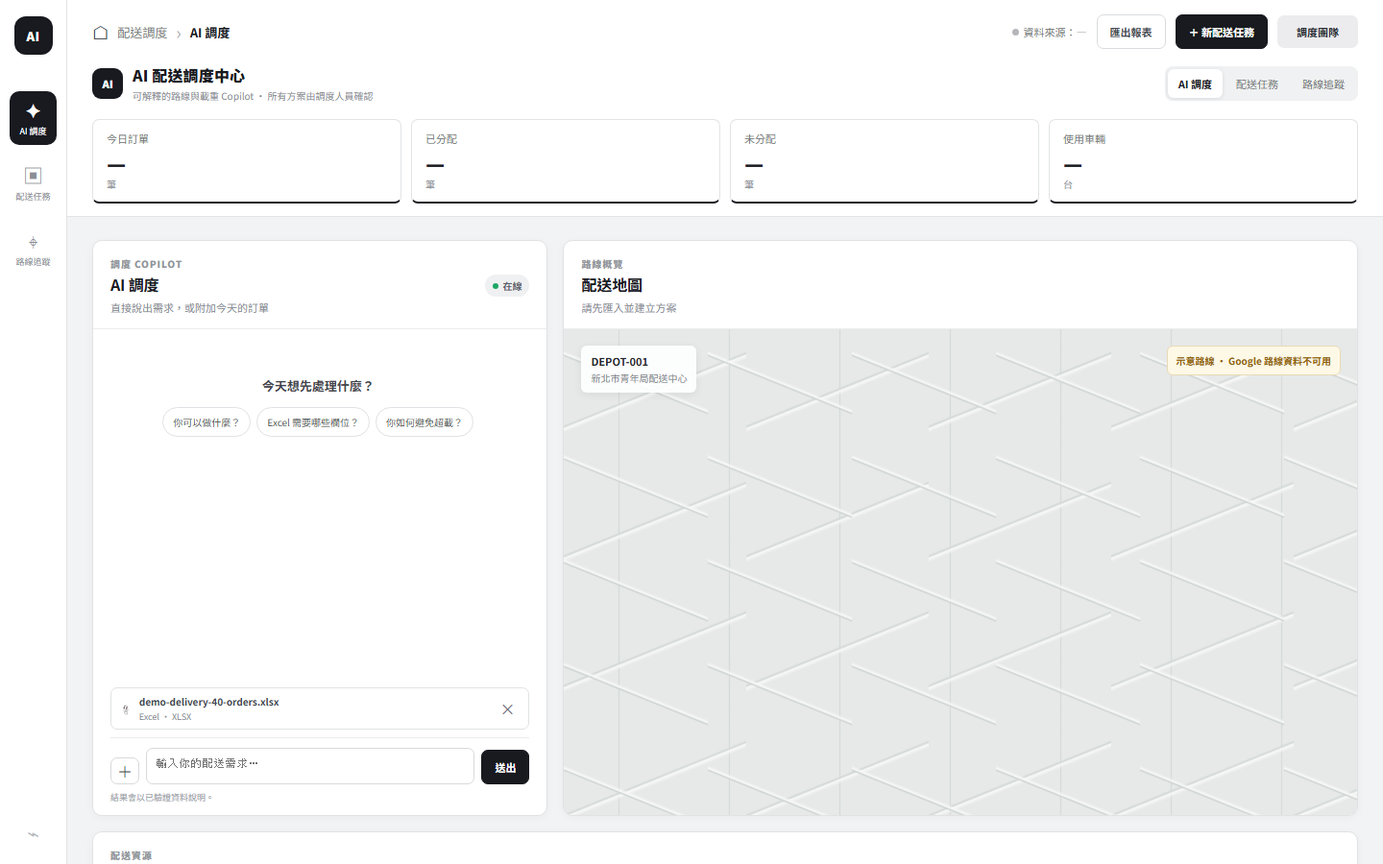
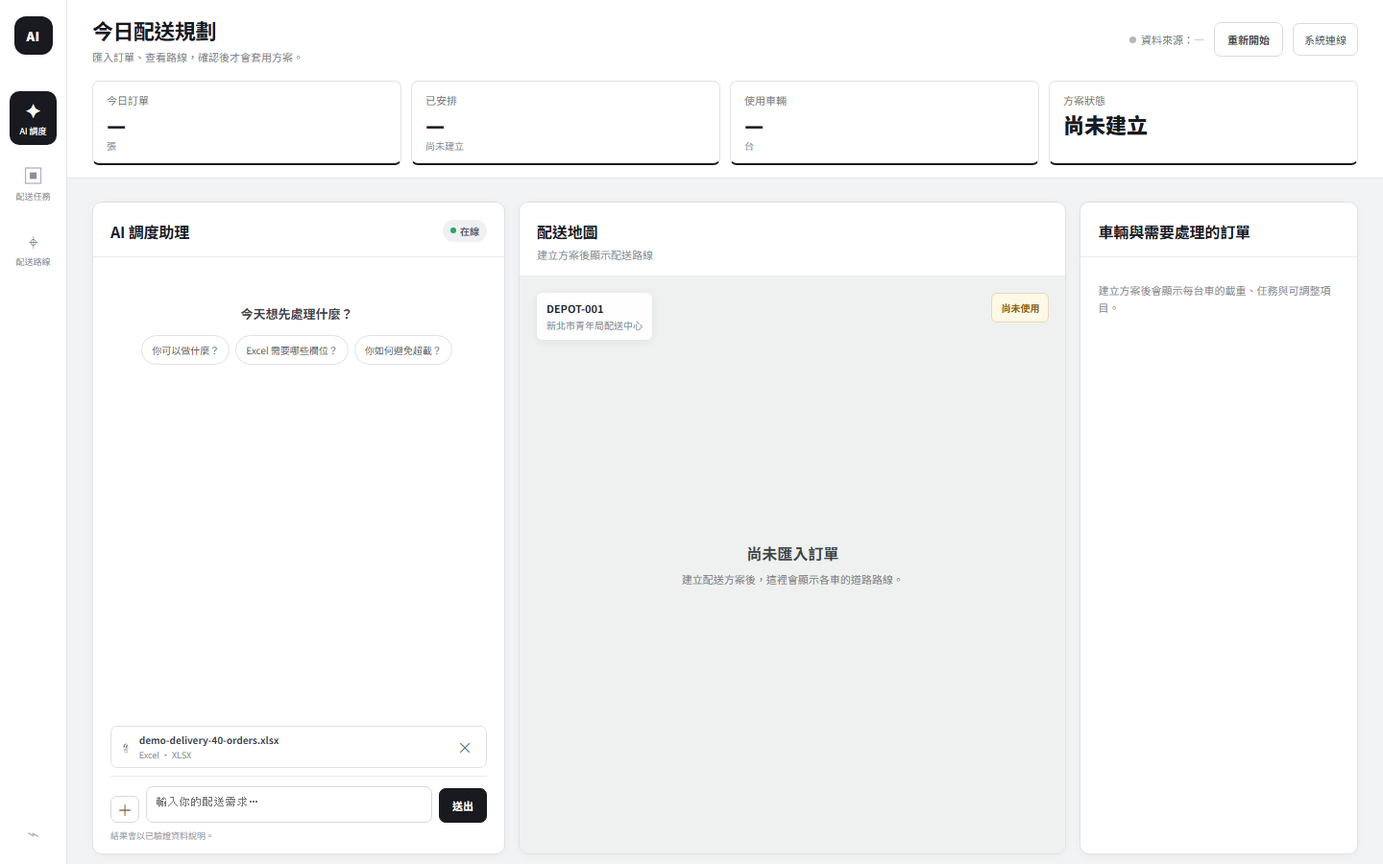
docs: record final public demo acceptance

diff --git a/docs/project-status.md b/docs/project-status.md
@@ -29,25 +29,25 @@
 | 超重重新分配 | 原始必要 | 完成 | Z4 112 kg acceptance、獨立方案檢查與公開最佳化方案證據 | 無核心缺口 |
 | 臨時插單 Preview 與差異 | 原始必要 | 完成 | `try_minimal_insert`、`compute_plan_diff`；公開 ORD-041 Google Live 預覽與人工確認 | 無核心缺口 |
 | 人工確認與方案版本管理 | 原始必要 | 完成（確認狀態與 current pointer 已持久化） | API lifecycle tests、SQLite immutable version tests、confirm persistence regression | 無本輪核心缺口 |
-| OpenAI Agent 真正呼叫 Tool | 原始必要 | 完成（Local Live；HTTP gate blocked） | `src/agent/runtime.py`、`/api/v1/agent/chat`、本輪 `RunResult`／strict tool evidence | 需在不觸發 Windows in-process OR-Tools abort 的 HTTP harness／公開環境重驗 |
+| OpenAI Agent 真正呼叫 Tool | 原始必要 | 完成 | `src/agent/runtime.py`、`/api/v1/agent/chat`；24 個 Live Runner 與公開線性 E2E 均驗證 `RunResult`／strict tool evidence | 無核心缺口 |
 | Google Routes 真實距離／時間 | 原始必要 | 完成 | 公開 `provider_mode=GOOGLE`，Matrix 與道路 geometry 均實際取得 | 無核心缺口 |
 | Google Matrix 進入 OR-Tools | 原始必要 | 完成 | 公開 Matrix hash、40／40 OR-Tools plan、方案檢查與策略比較 hash 一致 | 無核心缺口 |
 | Google Maps Browser 地圖 | 原始必要 | 完成 | 公開 Google 地圖實例、40 個站點、4 條非 simulated 道路路線，Console error 0 | 無核心缺口 |
 | TDX OAuth／真實路況查詢 | 未來可選擴充 | 本版本未啟用 | 既有 adapter 保留，但不列入本次 Demo 流程 | 未排入本輪 |
 | TDX 路線風險判斷 | 未來可選擴充 | 本版本未啟用 | 既有 deterministic correlation 保留 | 未排入本輪 |
 | 前端完整操作流程 | 原始必要 | 完成 | 公開 Excel→Agent→Plan→Map→拖拉 Preview→ORD-041→人工確認驗收 | 無核心缺口 |
-| 全整合前後端 Live E2E | 原始必要 | 公開重驗中 | OpenAI、Google Routes、Google Maps、OR-Tools、方案檢查與人工確認具既有公開證據 | 等待本輪最新 Commit 部署後，從空白首頁完整重跑 |
+| 全整合前後端 Live E2E | 原始必要 | 完成 | 公開網站從空白首頁一次完成 Excel→Google Matrix→OR-Tools→地圖→Agent→拖拉→ORD-041→確認→策略→延遲→版本；未處理錯誤 0、正式派車請求 0 | 無核心缺口 |
 | 任意結構化臨時插單與連續版本 | 原始必要 | 完成（simulated acceptance） | `preview_structured_urgent_insert`、API arbitrary-order test、`docs/randomized-acceptance-report.json` | Live Google 僅執行代表性流程；壓力測試使用 simulated |
 
 ## NOW
 
-推送本輪已通過本機閘門的修正，等待 Render 自動部署後，從公開空白首頁完成單次線性 Demo 驗收。
+依 `docs/demo-runbook.md` 執行明晚展示前檢查；不新增功能、不執行正式派車。
 
 ## NEXT
 
-1. 推送本輪修正並等待 Render 自動部署。
-2. 從公開空白首頁完成單次線性 Demo 與 1440×900 截圖。
-3. 依公開證據更新最終驗證紀錄。
+1. 明晚展示前確認 Render `/health` 與首頁可用。
+2. 準備範例 Excel，依線性流程演練一次。
+3. 後續再評估非必要的企業擴充；TDX 不在本版範圍。
 
 ## BLOCKED
 
@@ -58,7 +58,9 @@
 - `EXT-001 — Resolved`：Google Browser key 已設定並通過 Live Playwright；P0 Benchmark 仍固定使用 simulated matrix 以維持可重現。
 - `EXT-002 — Scope Decision`：TDX 已由本輪明確排除並移至未來可選擴充，不影響核心 Demo 或完成判定。
 
-## 2026-09-05 V2 最新公開重驗（Commit `c5fe929577797cb8590eac7d54fc47b6fb5637fa`）
+## 2026-09-05 歷史公開紀錄（已由 2026-09-06 驗收取代）
+
+以下保留事故與修正軌跡，不代表目前狀態；目前權威結果以文件頂端與 `LAST VALIDATION` 的 2026-09-06 紀錄為準。
 
 - Render Dashboard 顯示該 Commit 已部署為 `Live`；`/health` HTTP 200，服務回報 `status=ok`。
 - 無資料的八種口語／中英混用事件均由公開 `/api/v1/agent/chat` 回傳 `RunResult`：急單與缺資料事件選 `request_missing_fields`；車輛事件選 `change_vehicle_availability`；凍結站點選 `change_frozen_stops`；延遲查詢選 `simulate_delay`。未使用 regex 或固定訂單路由。
@@ -86,6 +88,13 @@
 - `PUBLIC-AUDIT-001 — Acceptance`：Render 公開網址實測 `/health`、`/ready`、Swagger／OpenAPI 13 paths、CORS、官方 40 單匯入、Google Matrix → OR-Tools、Google Maps 道路 geometry、OpenAI `Runner.run` tool evidence 與 ORD-041 preview；未執行 Dispatch。公開驗收使用合成資料，未輸出任何憑證。
 
 ## DONE THIS ROUND
+
+- 從 Render 公開空白首頁以單一 Chromium 會話完成完整線性 Demo，涵蓋 Excel、40／40、4／4、Google 道路地圖、Agent 工具證據、車輛事件、真實拖拉換車、取消、ORD-041、人工確認、三策略、延遲與版本；結果 `1 passed`，正式派車請求 `0`。
+- 公開 Agent 現場題目均實際呼叫 `/api/v1/agent/chat`；重要問題逐題驗證 `RunResult` 與預期 strict tool。Prompt injection 收到明確 `PROMPT_INJECTION_BLOCKED`，沒有未處理 Console／page error。
+- 視覺稽核發現車輛停用與延遲回答可能顯示 JSON／英文內部欄位；已 regression-first 修正為繁體中文白話摘要，並讓 ORD-041 回答直接顯示受影響車輛、換車數、距離、時間與方案檢查。
+- Backend 全量 `218 passed、28 skipped`；112 案例 corpus 實際 `115 passed`；24 個 Live Runner `24 passed`；Ruff／mypy 通過。
+- Frontend TypeScript、ESLint、Vitest `20 passed`、production build 通過；本機 Playwright core `2 passed`、隨機資料／純附件 `2 passed`，公開線性 E2E `1 passed`。
+- Secret scan：高信心 pattern `0`、追蹤敏感路徑 `0`、GitHub Actions `0`；`.env` 與 `frontend/.env.local` 均被 Git 排除。
 
 - 以 regression-first 新增空白首頁狀態、Google／TDX 顯示與不完整 Preview 禁止套用測試，並完成對應修正。
 - 修正 validated dataset 的自然語言建立方案被誤選為臨時插單缺欄流程；真實 `gpt-5-mini` `Runner.run` 已驗證選用 `plan_dispatch`。
@@ -184,6 +193,12 @@
 - 完成 1440×900 視覺檢查截圖：`C:\Users\User\AppData\Local\Temp\ai-dispatch-redesign-1440x900.png`、`ai-dispatch-redesign-imported-1440x900.png`、`ai-dispatch-redesign-tasks-1440x900.png`、`ai-dispatch-redesign-tracking-1440x900.png`；Browser key 缺少時明確顯示示意路線，未宣稱 Google Maps Live。
 
 ## LAST VALIDATION
+
+- 2026-09-06 Commit `550f73678f8772a9d1f96c03cd4d66a2870f3664` 公開 Render 線性 E2E：`1 passed`（4.6 分鐘）；同一瀏覽器會話由空白首頁走完整流程，15 張 1440×900 截圖存於 `docs/screenshots/public-final/`，未處理 Console／page error `0`，正式派車 requests `0`。
+- 公開正式方案：40／40 張、4／4 台、365 kg、Google 即時 Matrix→OR-Tools、方案檢查通過；本次畫面載重為 VEH-001 `106/120 kg`、VEH-002 `93/100 kg`、VEH-003 `160/160 kg`、VEH-004 `6/110 kg`。
+- 公開 ORD-041：40→41 張、365→367 kg、影響 1 台車、既有訂單換車 0 張、距離 `+2,296 m`、時間 `+268 s`、方案檢查通過；人工確認後建立新版本。
+- 最新本機：Backend `218 passed、28 skipped`；deterministic corpus `115 passed`；Live Runner `24 passed`；Ruff、mypy、TypeScript、ESLint、Vitest `20 passed`、Vite build 均通過。
+- Playwright：基礎回歸 `2 passed`；固定 seed 隨機資料／純附件 `2 passed`（明確 `SIMULATED`）；公開完整 Google／OpenAI 流程 `1 passed`。本機舊 Live gate 因 Server Key 僅允許 Render 而分類 `API_KEY_RESTRICTED`，不影響已通過的公開 Live 驗收。
 
 - 2026-09-06 本機最終閘門：`pytest 216 passed、28 skipped`；28 個 skipped 全是明確 opt-in 外部 gates，其中 24 個 OpenAI Runner corpus 已另行以 Live 模式得到 `24 passed`。
 - 112 筆機器可讀 Agent corpus 全數通過；測試檔總計 `115 passed`（含 3 個資料集完整性檢查）。

diff --git a/docs/requirements.md b/docs/requirements.md
@@ -6,7 +6,7 @@
 |---|---|---|---|---|---|---|---|---|---|
 | FR-PLAN-008 | 原始必要 | 一般正式方案只能使用 OR-Tools | 完成 | `src/agent/runtime.py`、`src/api/main.py`、`tests/test_formal_plan_guardrails.py` | 無 | 後端 | 合法 Dataset | API 與 Agent 正式 plan 皆為 ORTOOLS；Baseline confirm 回傳拒絕 | Baseline 僅能比較 |
 | FR-PLAN-009 | 原始必要 | 完整性與規則合法性分開 | 完成 | `_plan_payload`、`DetailsPanel.tsx`、正式方案 regression | 公開最新版本待重驗 | 共同 | Plan、方案檢查證據 | 40／40 與方案檢查分開顯示；38／40 不可確認 | 不完整方案保留人工處理原因 |
-| FR-UI-004 | 原始必要 | 單一控制塔與白話狀態 | 完成（本機） | `frontend/src/App.tsx`、各 Panel、RTL／Playwright | 公開最新 Render 待驗收 | 前端 | REST API | 無重複頁名、主畫面 Raw JSON 或假地圖 | 地圖失敗保留列表 |
+| FR-UI-004 | 原始必要 | 單一控制塔與白話狀態 | 完成 | `frontend/src/App.tsx`、各 Panel、RTL／Playwright、`docs/screenshots/public-final/` | 無核心缺口 | 前端 | REST API | 公開畫面無重複頁名、主畫面 Raw JSON 或假地圖 | 地圖失敗保留列表 |
 | FR-AGENT-004 | 原始必要 | 多語句 strict tool 選擇驗收 | 完成（本機） | 112 筆 fixture；24 個真實 Runner 案例 | 公開 12 案例待部署後執行 | 共同 | OpenAI credential | 工具、參數、結果及回答依據全部可驗證 | 無 key 回傳 503 |
 
 本文件將已核准的產品需求拆解為可追溯的 requirements；若文字不一致，以 `ACTIVE_SPEC.md` 為準。
@@ -92,11 +92,11 @@
 | FR-AGENT-002／FR-AGENT-003 | 原始必要 | OpenAI Agent 真正呼叫 deterministic Tool | 完成（可執行；Live 依環境） | `/api/v1/agent/chat` → `run_dispatch_agent` → `Runner.run`；`tests/test_agent_sdk_scenarios.py` | 公開環境若缺 key 必須標示 BLOCKED，不能以 mock 取代 | 後端／共同 | OpenAI credentials（僅 live gate） | Agent tool call trace、Validator evidence、evidence grounding | 缺 key 回傳 503 |
 | REQ-ORIG-001 | 原始必要 | Google Routes 真實 distance／duration | 部分完成（strict wiring；當前 Live 需憑證） | `src/providers/google_routes.py`、`_build_matrix`、provider wiring tests | 需在當前環境重新取得 provider response 才能標示 Live | 後端 | Google server key、terms／quota review | real matrix response 可追蹤且失敗明確；不得以 simulated 宣稱 live | 缺 key 明確標示 `SIMULATED`；已設定 key 失敗回傳 provider error |
 | REQ-ORIG-002 | 原始必要 | Google Routes Matrix 真正進入 OR-Tools | 完成（可執行 strict path；Live 依憑證） | `_build_matrix`、`create_plan`、matrix hash/version consistency test | 公開驗收仍需當前 provider evidence | 後端 | REQ-ORIG-001 | 同一 MatrixResult identity 傳入 solver 並由 Validator 通過 | provider 失敗不得靜默降級 |
-| REQ-ORIG-003 | 原始必要 | Google Maps Browser 顯示地圖、Marker、路線 | 部分完成（前端已建置，Browser LIVE BLOCKED） | `frontend/src/components/MapPanel.tsx`、MUI control tower、simulated map fallback | Browser key 與實際瀏覽器 Live 驗收 | 前端 | Browser key、frontend origin | 瀏覽器實際顯示 Google map／Marker／polyline | 無 key 顯示 `SIMULATED` preview |
+| REQ-ORIG-003 | 原始必要 | Google Maps Browser 顯示地圖、Marker、路線 | 完成 | `frontend/src/components/MapPanel.tsx` 與 Render 公開 Playwright：實際 Google map、站點與四車道路 polyline | 無核心缺口 | 前端 | Browser key、frontend origin | 瀏覽器實際顯示 Google map／Marker／polyline | 無 key 時保留列表並顯示未設定，不冒稱 Live |
 | REQ-EXT-TDX-001 | 未來可選擴充 | TDX OAuth、真實路況與道路事件查詢 | 本版本未啟用 | 既有 `src/providers/tdx.py` 與 mock tests 保留 | 本輪不申請憑證、不做 Live 驗收 | 後端 | 未來產品決策與 TDX credentials | 若未來啟用，須以真實 response 與授權錯誤驗收 | 主畫面顯示「本版本未啟用」，不阻塞核心 Demo |
 | REQ-EXT-TDX-002 | 未來可選擴充 | TDX 指出受影響路線與配送風險 | 本版本未啟用 | 既有 `correlate_events_to_plan` 與 mock coverage 保留 | 尚未排入本輪 | 後端／共同 | REQ-EXT-TDX-001、路線資料 | 未來須讓風險可追溯至真實 TDX evidence | 不參與本輪完成判定 |
 | REQ-ORIG-006 | 原始必要 | 前端完整顯示訂單、車輛、載重、路線與 Agent | 完成（控制塔 UI；Provider 狀態依環境） | `frontend/`、RTL tests、`docs/frontend-handoff.md` | 當前公開環境仍需再次確認 credentials 與瀏覽器流程 | 前端 | REST API、Browser key | 三條操作流程與 evidence 畫面可在瀏覽器完成 | provider 降級狀態必須明確顯示 |
-| REQ-ORIG-007 | 原始必要 | Google／OR-Tools／OpenAI Agent／前端整合驗證 | 公開重驗中 | backend／frontend tests、`tests/test_top5_features.py`、公開 Playwright 線性流程 | 等待最新 Commit 部署後由公開空白首頁完整重跑 | 共同 | Google／OpenAI credentials | 瀏覽器到真實 provider 的完整流程通過且 Dispatch requests 為 0 | Live 失敗須明確標示，不以 simulated 取代 |
+| REQ-ORIG-007 | 原始必要 | Google／OR-Tools／OpenAI Agent／前端整合驗證 | 完成 | backend／frontend tests、`tests/test_top5_features.py`、Render 公開空白首頁單次線性 Playwright | 無核心缺口 | 共同 | Google／OpenAI credentials | 瀏覽器到真實 provider 的完整流程通過且正式派車 requests 為 0 | Live 失敗須明確標示，不以 simulated 取代 |
 
 ### 企業級擴充功能（B 類）
 

diff --git a/docs/validation-report.md b/docs/validation-report.md
@@ -9,15 +9,38 @@
 | Agent 建立方案語意 | 真實 `gpt-5-mini` `Runner.run` 對「請匯入這份訂單並建立今天的配送方案」選擇 `plan_dispatch`，不再誤選 `request_missing_fields` | `LOCAL LIVE PASS` |
 | Agent 語料 | `tests/fixtures/agent_dialogue_cases.json` 112 筆；測試檔共 `115 passed`（112 cases＋3 個完整性檢查） | `MOCK PASS` |
 | OpenAI Runner 語料 | `RUN_LIVE_AGENT_CORPUS=1`：24 筆代表案例全部實際進入 `Runner.run` | `24 passed`／`LOCAL LIVE PASS` |
-| Backend 全量 | `pytest -q --basetemp=.pytest-final-demo` | `216 passed、28 skipped` |
+| Backend 全量 | `pytest -q --basetemp=.tmp/pytest-final -p no:cacheprovider` | `218 passed、28 skipped` |
 | Python 品質 | `ruff check src tests scripts`、`mypy src`、`git diff --check` | `PASS` |
-| Frontend 品質 | TypeScript、ESLint、Vitest 6 files／16 tests、Vite production build | `PASS` |
-| Browser regression | keyless core `2 passed`；第二組隨機資料與純附件 `2 passed` | `PASS` |
+| Frontend 品質 | TypeScript、ESLint、Vitest 6 files／20 tests、Vite production build | `PASS` |
+| Browser regression | keyless core `2 passed`；第二組隨機資料與純附件 `2 passed`；公開完整線性 E2E `1 passed` | `PASS` |
 | Preview 安全 | 不完整或有未安排訂單時，「套用變更」停用並顯示白話原因 | `PASS` |
 | TDX | 本輪依範圍決策排除，UI 顯示「本版本未啟用」 | `EXCLUDED` |
 | Secret／正式派車 | 高信心 secret pattern 0、GitHub Actions 0；測試未執行正式派車 | `PASS` |
 
-28 個 skipped 全是明確 opt-in 的外部 Live gates：`test_agent_e2e.py` 2 個、`test_live_agent_dialogue_corpus.py` 24 個、`test_live_integrations.py` 1 個、`test_responses_api.py` 1 個。其中 24 個 Runner 語料已另以 Live 模式實跑並全數通過；最新公開 Render 線性 E2E 必須在本次 Commit 完成自動部署後執行，部署前不預先標示公開通過。
+28 個 skipped 全是明確 opt-in 的外部 Live gates：
+
+- `tests/test_agent_e2e.py::test_agents_sdk_daily_dispatch_calls_deterministic_planning_tool`：需 `RUN_LIVE_AGENT_E2E=1`；能力已由 24-case Live corpus 與公開 E2E 覆蓋，不影響 Demo。
+- `tests/test_agent_e2e.py::test_live_agent_http_endpoint_uses_agents_sdk`：需 `RUN_LIVE_AGENT_HTTP_E2E=1`；公開 `/api/v1/agent/chat` 已逐題驗證 `RunResult` 與工具證據，不影響 Demo。
+- `tests/test_live_agent_dialogue_corpus.py::test_live_agent_selects_expected_tool` 24 個參數案例：全量測試預設跳過；本輪已以 `RUN_LIVE_AGENT_CORPUS=1` 另行實跑並得到 `24 passed`，分類為 `LOCAL LIVE PASS`。
+- `tests/test_live_integrations.py::test_live_google_requires_explicit_environment_key`：需 `RUN_LIVE_PROVIDER_E2E=1`；本機 Server Key 的使用限制不允許該來源，但 Render 公開線性流程已實際完成 Google Matrix→OR-Tools，分類為 `PUBLIC LIVE PASS`。
+- `tests/test_responses_api.py::test_responses_gpt5_mini_text_and_strict_tool_smoke`：需 `RUN_LIVE_RESPONSES_SMOKE=1`；本輪主流程使用 Agents SDK Runner，這個底層 smoke 非明晚 Demo 阻塞。
+
+## 2026-09-06 Render 公開線性驗收
+
+| 步驟 | 公開瀏覽器實際證據 | 狀態 |
+|---|---|---|
+| 空白首頁 | 顯示「尚未匯入訂單／尚未使用」，未誤報 Google 失敗；TDX 顯示「本版本未啟用」 | `PUBLIC LIVE PASS` |
+| Excel 匯入 | `demo-delivery-40-orders.xlsx` 與文字同一則訊息送出，匯入 40 orders／80 packages／4 vehicles | `PUBLIC LIVE PASS` |
+| 正式方案 | Google 即時 Matrix 進入 OR-Tools；40／40、4／4、365 kg，載重／區域／時段／重複檢查通過 | `PUBLIC LIVE PASS` |
+| 地圖 | Google Maps JavaScript API 實際顯示道路底圖、四車路線與站點；可切換單車／全部 | `PUBLIC LIVE PASS` |
+| Agent 現場題 | 公開 `/api/v1/agent/chat` 回應至少 12 次；要求工具的題目逐題斷言 `RunResult` 及 tool evidence | `PUBLIC LIVE PASS` |
+| 拖拉換車 | 瀏覽器原生 DragEvent 將 `ORD-002` 放到 `VEH-004`，收到 `/reassign/preview` 200，顯示距離／時間差異；取消後原版本不變 | `PUBLIC LIVE PASS` |
+| ORD-041 | Preview 為 40→41、365→367 kg、影響 1 台車、既有訂單換車 0、距離 +2,296 m、時間 +268 s；方案檢查通過 | `PUBLIC LIVE PASS` |
+| 人工確認／版本 | 使用者按下套用後建立確認版本；可顯示版本列表，沒有正式派車 | `PUBLIC LIVE PASS` |
+| 三策略／延遲 | 同一 Google 資料比較最快、最平均、最穩定；+20 分鐘風險預覽可見 | `PUBLIC LIVE PASS` |
+| 安全 | Prompt injection 得到 `PROMPT_INJECTION_BLOCKED`；未處理 Console／page error 0；正式派車 requests 0 | `PUBLIC LIVE PASS` |
+
+Commit `550f73678f8772a9d1f96c03cd4d66a2870f3664` 部署後，單次完整公開 Playwright 結果為 `1 passed`（4.6 分鐘）。15 張 1440×900 截圖位於 `docs/screenshots/public-final/`。公開方案畫面實際載重為 VEH-001 `106/120 kg`、VEH-002 `93/100 kg`、VEH-003 `160/160 kg`、VEH-004 `6/110 kg`。三策略實測為：最快 `242,911 m／483 分鐘`、最平均 `421,013 m／707 分鐘／載重差 19 kg`、最穩定 `289,111 m／527 分鐘／載重差 29 kg`。前端白話化回歸涵蓋車輛停用、插單差異、延遲風險與未知 JSON，確保主對話不顯示內部欄位、英文風險碼或 Raw JSON。
 
 ## 2026-09-05 最新公開驗證（Commit `cb53615c25b0732d4243bd8470e3c9dc1356dc26`）
 

diff --git a/spec-driven/ACTIVE_SPEC.md b/spec-driven/ACTIVE_SPEC.md
@@ -89,9 +89,9 @@ application_agent_count: 1
 
 | 原始必要能力 | 現況 | 實際證據與缺口 |
 |---|---|---|
-| Google Routes live distance／duration | 部分完成（Live BLOCKED） | `src/providers/google_routes.py` strict adapter 與 `tests/test_live_provider_wiring.py`；本環境缺 server key，無 LIVE PASS。 |
+| Google Routes live distance／duration | 完成 | Render 公開線性 E2E 實際取得 Google Matrix，並由同一次 OR-Tools 方案回傳可追溯來源；未 fallback。 |
 | Google Matrix 進入 OR-Tools | 部分完成（wiring verified） | `_build_matrix` 將 strict Google `MatrixResult` 傳入 solver；hash/version 一致性 test；尚缺真實 provider E2E。 |
-| Google Maps Browser 地圖 | 部分完成（Browser LIVE BLOCKED） | `frontend/src/components/MapPanel.tsx` 可載入 Google Maps、Marker、polyline，無 key 時為 simulated fallback。 |
+| Google Maps Browser 地圖 | 完成 | Render 公開 Chromium 實際載入 Google Maps 道路底圖、四車道路 polyline 與站點，且可切換單車／全部路線。 |
 | TDX OAuth／真實路況／道路事件 | 未來可選擴充（本版本未啟用） | 既有 `src/providers/tdx.py` 與 mock coverage 保留；本輪不申請憑證、不做 Live 驗收。 |
 | TDX 受影響路線／配送風險 | 未來可選擴充（本版本未啟用） | 既有 `correlate_events_to_plan` 保留，不影響 Google／OR-Tools／Agent 核心 Demo。 |
 | 前端完整操作與 Agent 顯示 | 完成（控制塔 UI；Live 依環境） | `frontend/` React/Vite/MUI、API client、Agent-first attachment flow、RTL tests；公開 Live 需當前憑證。 |

diff --git a/CHANGELOG.md b/CHANGELOG.md
@@ -2,6 +2,10 @@
 
 ## 2026-09-06 — 明晚 Demo 穩定性與公開線性驗收
 
+- 公開 Render 以同一個 Chromium 會話從空白首頁完整跑完 Excel、40／40、4／4、Google 地圖、Agent、拖拉換車、取消、ORD-041、人工確認、三策略、延遲與版本，結果 `1 passed`；未處理錯誤與正式派車請求皆為 0。
+- 視覺驗收發現車輛停用與延遲回答仍可能顯示 JSON／英文內部欄位；已 regression-first 改為證據導向的繁體中文摘要，並補強 ORD-041 差異摘要與未知 JSON fail-closed 顯示。
+- 最新品質結果：Backend `218 passed、28 skipped`；112-case corpus `115 passed`；OpenAI Live Runner `24 passed`；Frontend Vitest `20 passed`，TypeScript、ESLint、Vite build、Ruff、mypy 與 secret scan 均通過。
+- Commit `550f736` 已在 Render 顯示 Live；公開網站再由空白首頁完整演練一次，結果 `1 passed`（4.6 分鐘），Console／page error 與正式派車請求皆為 0。
 - regression-first 修正空白首頁把「尚未使用」誤顯示為 Google 路線故障；Google Maps 的「已連線」只在地圖實際載入後成立，TDX 依本輪範圍顯示「本版本未啟用」。
 - 修正有 validated dataset 的自然語言「請匯入這份訂單並建立今天的配送方案」被 Agent 誤選為臨時插單缺欄流程；真實 `gpt-5-mini` `Runner.run` 已選用 strict `plan_dispatch`。
 - 車輛清單可展開所有訂單，保留真正的 drag-and-drop 與「移至其他車輛」無障礙替代操作；不完整 Preview 現在會停用「套用變更」並顯示白話原因。

diff --git a/docs/frontend-handoff.md b/docs/frontend-handoff.md
@@ -37,6 +37,14 @@ Browser key 為選用項目，必須限制於精確 HTTP referrers 與 Maps Java
 
 本輪分支為 `feat/frontend-control-tower`，完成後只推送該分支，不自動合併 `main`。
 
+## 目前公開交付狀態
+
+- Render：`https://ai-dispatch-control-tower.onrender.com/`。
+- 公開單一路徑 Playwright 已從空白首頁完成 Excel＋文字單次送出、40／40、4／4、Google 道路地圖、Agent、拖拉換車、ORD-041、人工確認、三策略、延遲與版本；正式派車 requests 為 0。
+- Agent 對話主畫面會把車輛停用、插單差異與其他工具輸出轉成繁體中文摘要；Raw JSON、內部狀態代碼與技術證據只可出現在收合區域。
+- 15 張 1440×900 驗收畫面位於 `docs/screenshots/public-final/`；明晚操作順序見 `docs/demo-runbook.md`。
+- TDX 是未來可選擴充，本版本不啟用，不影響匯入、方案、地圖、Agent、插單、換車或人工確認。
+
 ## 前端安裝與啟動
 
 在 repository root 啟動後端後，再於 `frontend/` 使用 bundled Node／`pnpm`（或團隊核准的 Node 24 + pnpm 11）：

diff --git a/docs/demo-runbook.md b/docs/demo-runbook.md
@@ -88,12 +88,12 @@
 
 ## 展示完成檢查
 
-- [ ] 40／40 張已安排，4／4 台車有任務。
-- [ ] 正式方案是 OR-Tools，快速初步方案未成為可確認方案。
-- [ ] Google Matrix、OR-Tools、地圖與 API 使用同一方案來源。
-- [ ] 拖拉換車、ORD-041、延遲、三策略與版本皆有可見結果。
-- [ ] 不完整或違規 Preview 無法套用。
-- [ ] 人工確認建立新版本。
-- [ ] Console 未處理錯誤為 0。
-- [ ] Dispatch requests 為 0。
-- [ ] 截圖不含 Secret 或真實客戶資料。
+- [x] 40／40 張已安排，4／4 台車有任務。
+- [x] 正式方案是 OR-Tools，快速初步方案未成為可確認方案。
+- [x] Google Matrix、OR-Tools、地圖與 API 使用同一方案來源。
+- [x] 拖拉換車、ORD-041、延遲、三策略與版本皆有可見結果。
+- [x] 不完整或違規 Preview 無法套用。
+- [x] 人工確認建立新版本。
+- [x] Console 未處理錯誤為 0；Prompt injection 的預期 400 已以錯誤碼單獨驗證。
+- [x] Dispatch requests 為 0。
+- [x] 截圖不含 Secret 或真實客戶資料。
